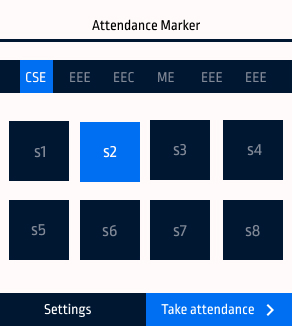
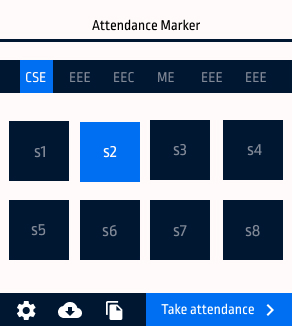
updated README for latest version

Changed region(s): [[0.1541, 0.9202, 0.3082, 0.9816], [0.339, 0.9202, 0.4315, 0.9816], [0.0616, 0.9202, 0.1233, 0.9816]]

diff --git a/README.md b/README.md
@@ -10,11 +10,13 @@ ___
 ## How to install?
 #### From .crx file
 1. Click on the latest release (right side of this page)
-2. In the assets listed click 'attendanceMarker_gmeet.crx' which will start downloading the file
+2. In the assets listed click 'attendanceMarker_gmeet.crx' which will start 
+downloading the file
 3. Open chrome and go to Settings > Extensions and turn on developer mode
 4. Drag the downloaded crx file to the extensions page
 #### From source code
-1. Clone this repository or download as zip by clicking green coloured 'code' button
+1. Clone this repository or download as zip by clicking green coloured 'code' 
+button
 on top of this page and extract it
 2. Open chrome and go to settings > Extensions and turn on developer mode
 3. Click 'load unpacked' and select the folder you have downloaded
@@ -22,24 +24,41 @@ on top of this page and extract it
  
 ## How to use?
 
-1. You need to add the list of students (only for the first time) to take the attendance.
+1. You need to add the list of students (only for the first time) to take the
+ attendance.
 2. After that join the google meet and **open participants list**.
-3. Open the extension and select branch and semester in which you have uploaded the students list and click 'Take Attendance'
+3. Open the extension and select branch and semester in which you have uploaded
+ the students list and click 'Take Attendance'
+4. It will show students who are absent and names of people who isn't on the 
+students list but is present in the meet.
+	Click 'Mark Attendance' to save this record. 
+5. (You can remove students from absent list by clicking delete button near 
+their name 
+and click 'Mark Attendance')
 
-It will show students who are absent and names of people who isn't on the students list but is present in the meet.
-
+Attendance is recorded with date as a key so marking attendance multiple times
+a day will just overwrite that day's record.
 ## How to upload?
 
-1. Open the extension and select the branch and semester to which you want to upload the list.
-2. If you haven't uploaded any files before, you will see an upload button which will take you to a new tab. If you want to modify existing list read step 5
+1. Open the extension and select the branch and semester to which you want to 
+upload the list.
+2. If you haven't uploaded any files before, you will see an upload button which
+ will take you to a new tab. If you want to modify existing list read step 5
 3. Click on the upload file button and select the csv file you wish to upload 
 4. Click 'read csv'
-5. You can previously uploaded list by going to settings page and clicking 'clear database'. (Note that this will clear all the lists uploaded)
+5. You can previously uploaded list by going to settings page and clicking
+'clear database'. (Note that this will clear all the lists uploaded)
 
 ## How to create csv file?
 
-1. Create a google sheet with 2 columns ⇒ name & gname. Where name is the name of student and gname is the name on their google account or GMeet
+1. Create a google sheet with 2 columns ⇒ name & gname. Where name is the 
+name of student and gname is the name on their google account or GMeet
 
 ![sample list](./assets/list_sample.jpg)
 
 2. Click File > Download > csv
+
+## How to download?
+
+1. Select the branch and sem in home page.
+2. Click Download icon on bottom left.
